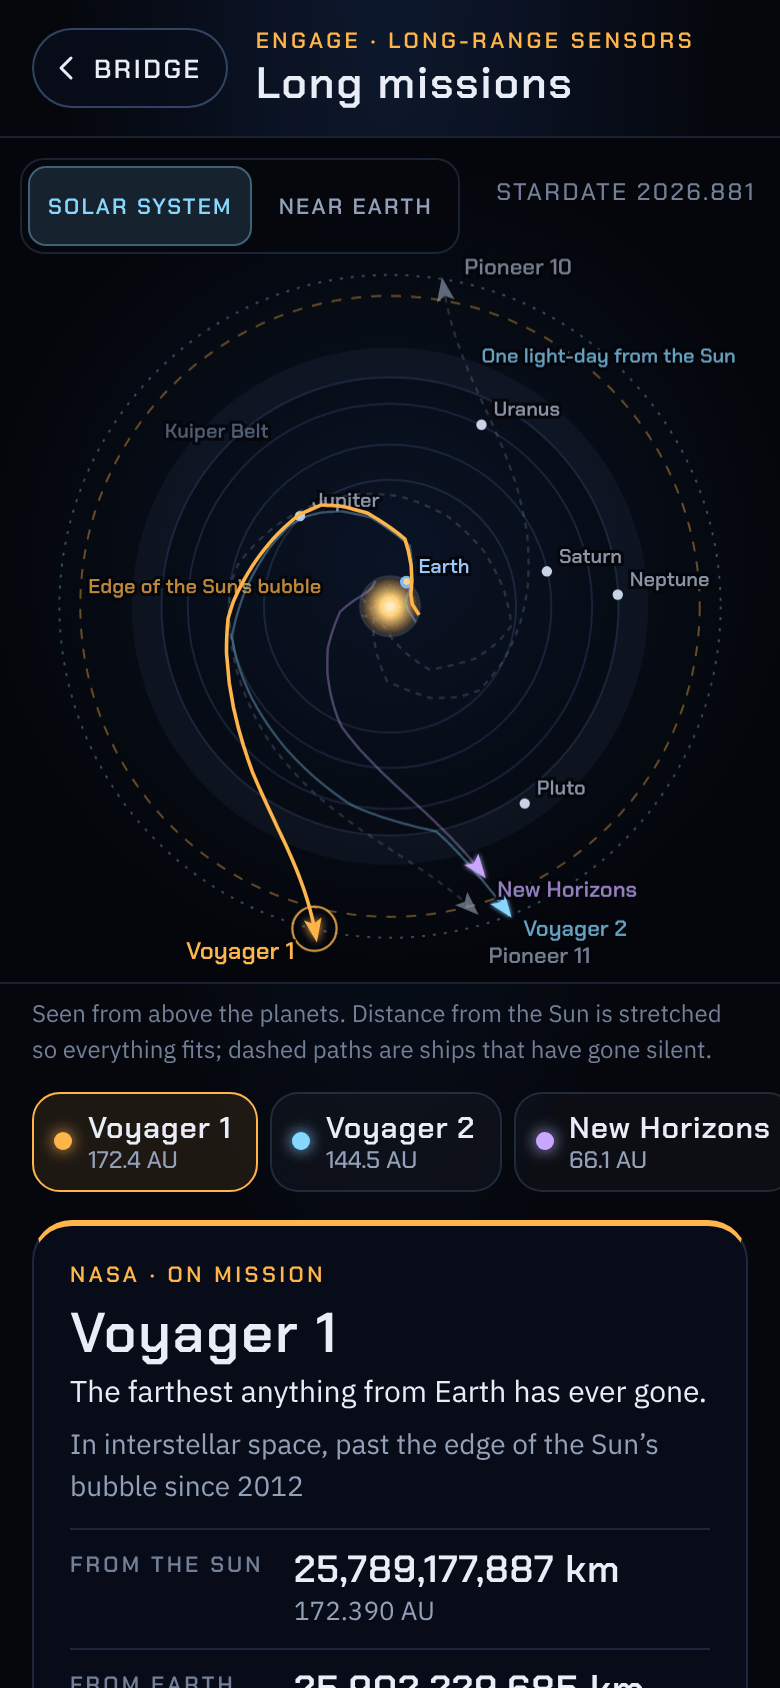
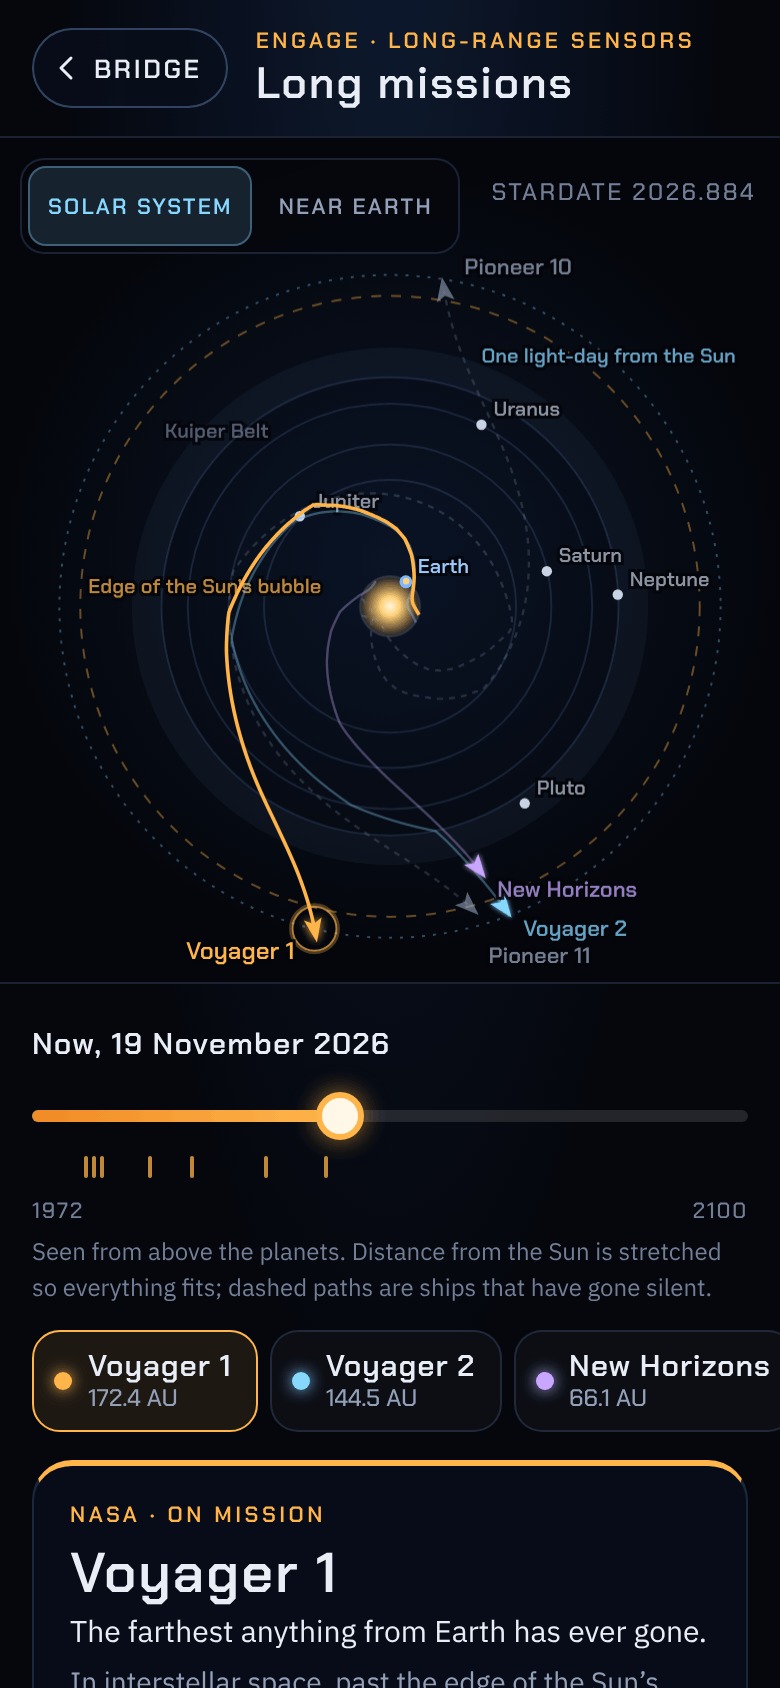
Long missions: the README's picture and the link preview drawn again
The room's first screen now has the timeline under the map, and the ships' paths among the planets follow the new
curve through their flybys, so the README's phone picture and the link preview were out of date. Both are drawn
again with tools/screenshots.mjs missions, and the picture's description mentions the timeline. Part of Mark's call
on a timeline from launch to 2100.

Claude-Session: https://claude.ai/code/session_01PQbLNVDaib7dGBXFANm7XP

diff --git a/README.md b/README.md
@@ -27,7 +27,7 @@
   &nbsp;
   <img src="docs/phone-scale.png" alt="The warp scale racing to the galactic core, 26,700 light years away: warp 9.975 is there after 3 years 11 months and warp 9 after 17 years 7 months, while warp 5, light and Voyager 1 are still on their way, and under the race the Real ship picker reads Voyager 1" width="250">
   &nbsp;
-  <img src="docs/phone-missions.png" alt="Long missions: a map of the Solar System with the paths of Voyager 1 and 2, New Horizons and the two Pioneers curling out past the planets, Voyager 1 nearly at the one light-day ring" width="250">
+  <img src="docs/phone-missions.png" alt="Long missions: a map of the Solar System with the paths of Voyager 1 and 2, New Horizons and the two Pioneers curling out past the planets, Voyager 1 nearly at the one light-day ring, and under it the timeline from 1972 to 2100 set to now" width="250">
   &nbsp;
   <img src="docs/phone-tonight.png" alt="Tonight's sky from New York after midnight, looking east: Orion rising with Rigel tagged Rigel VII, 40 Eridani tagged Vulcan, Aldebaran tagged Aldebaran whiskey and Capella tagged Capella IV, the constellations named in small capitals, the Pleiades, the Hyades and the Orion Nebula tagged in violet as soft patches at their true size, and the Orionid meteor shower’s radiant marked beside Betelgeuse" width="250">
 </p>
